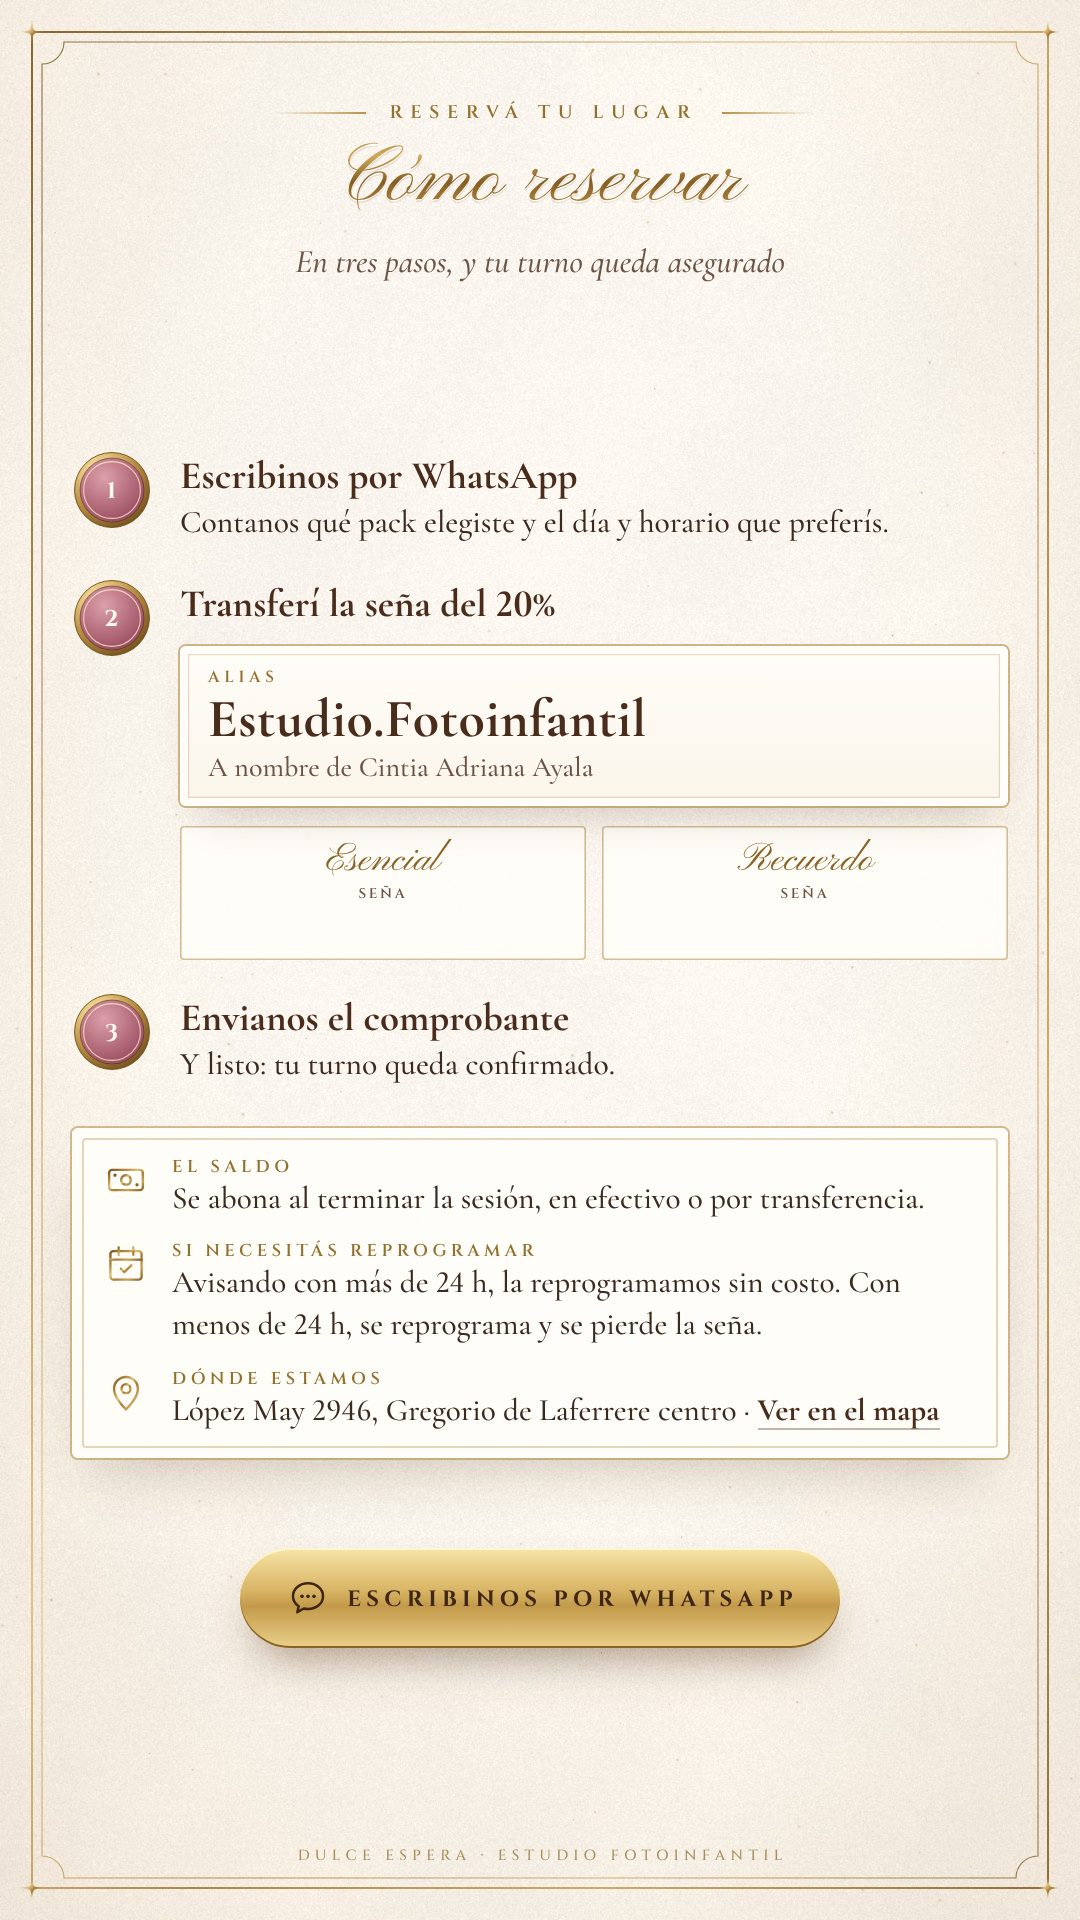
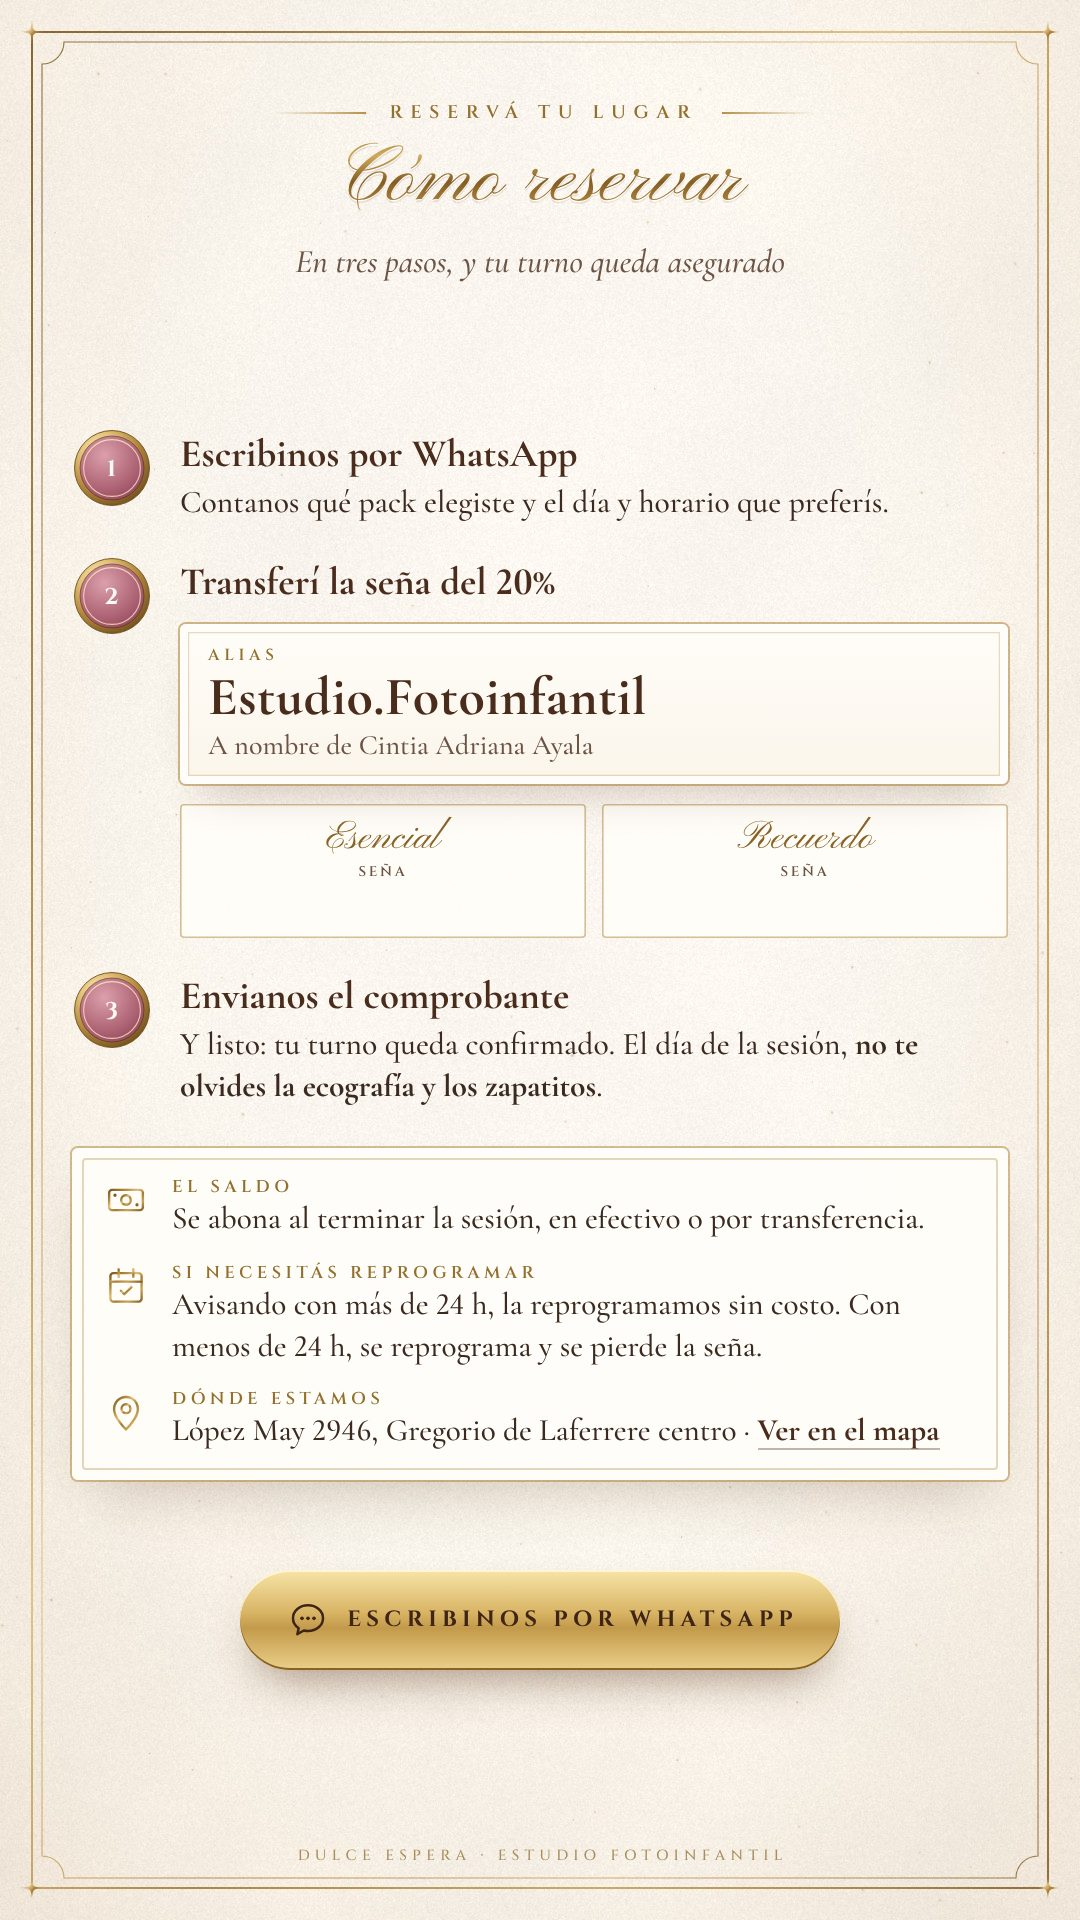
Maternidad: recordatorio de traer ecografía y zapatitos
Claude-Session: https://claude.ai/code/session_016rWcWKPNL1gNVstxUwshhh

diff --git a/maternidad/index.html b/maternidad/index.html
@@ -11,13 +11,13 @@
 <meta property="og:site_name" content="Estudio Fotoinfantil">
 <meta property="og:title" content="Dulce espera · Una propuesta para tu sesión de embarazo">
 <meta property="og:description" content="Sesión de fotos de embarazo en Estudio Fotoinfantil · Un recuerdo para toda la vida">
-<meta property="og:image" content="https://estudiofotoinfantil.github.io/WebEstudio/maternidad/og.jpg?v=dc3baa9d">
+<meta property="og:image" content="https://estudiofotoinfantil.github.io/WebEstudio/maternidad/og.jpg?v=0769d122">
 <meta property="og:image:width" content="1200">
 <meta property="og:image:height" content="630">
 <meta property="og:url" content="https://estudiofotoinfantil.github.io/WebEstudio/maternidad/">
 <meta name="twitter:card" content="summary_large_image">
-<link rel="icon" type="image/png" href="assets/favicon.png?v=dc3baa9d">
-<link rel="apple-touch-icon" href="assets/apple-touch-icon.png?v=dc3baa9d">
+<link rel="icon" type="image/png" href="assets/favicon.png?v=0769d122">
+<link rel="apple-touch-icon" href="assets/apple-touch-icon.png?v=0769d122">
 <link rel="preload" href="fonts/ballet-static-400.woff2" as="font" type="font/woff2" crossorigin>
 <link rel="preload" href="fonts/pinyon-script-latin-400-normal.woff2" as="font" type="font/woff2" crossorigin>
 <link rel="preload" href="fonts/cormorant-ln-500-italic.woff2" as="font" type="font/woff2" crossorigin>
@@ -43,8 +43,8 @@
   window.__fitK = k;
 })();
 </script>
-<script>window.NAV_V='dc3baa9d';</script>
-<script src="config.js?v=dc3baa9d"></script>
+<script>window.NAV_V='0769d122';</script>
+<script src="config.js?v=0769d122"></script>
 <style>
 @font-face{font-family:"Ballet";src:url(fonts/ballet-static-400.woff2) format("woff2");font-weight:400;font-display:block}
 @font-face{font-family:"Pinyon";src:url(fonts/pinyon-script-latin-400-normal.woff2) format("woff2");font-display:block}
@@ -364,6 +364,14 @@ ul.inc li.new{font-weight:700;color:var(--acc-ink)}
 .look{width:146px;text-align:center}
 .look .l{font-family:"Cinzel";font-weight:600;font-size:8.2px;letter-spacing:.22em;padding-left:.22em;color:var(--gold-txt);margin-top:9px}
 .tipsbox{padding:13px 18px 9px}
+.mustbring{position:relative;padding:14px 16px 15px;border-radius:3px;background:linear-gradient(165deg,#fffdfa 0%,var(--acc-soft) 100%);box-shadow:0 0 0 1px rgba(176,138,70,.75),0 0 0 4px rgba(255,253,249,.9),0 0 0 4.8px rgba(176,138,70,.5),0 18px 30px -12px rgba(90,55,25,.34)}
+.mustbring>.k{display:flex;justify-content:center;align-items:center;gap:9px;font-family:"Cinzel";font-weight:700;font-size:11px;letter-spacing:.3em;padding-left:.3em;color:var(--acc-ink)}
+.mustbring>.k svg{width:10px;height:10px}
+.mb2{display:flex;gap:14px;margin-top:11px}
+.mbi{flex:1;display:flex;align-items:center;gap:10px}
+.mbi svg{flex:0 0 52px;height:52px}
+.mbi .t{font-family:"Cormorant LN";font-weight:700;font-size:19px;line-height:1.15;color:var(--cocoa)}
+.mbi .d{font-family:"Cormorant LN";font-style:italic;font-weight:500;font-size:14.4px;line-height:1.2;color:var(--ink-soft);margin-top:1px}
 .tipsbox .k{font-family:"Cinzel";font-weight:600;font-size:8.6px;letter-spacing:.32em;color:var(--gold-txt)}
 
 /* ================================ WEB-ONLY UI ================================ */
@@ -444,6 +452,8 @@ html.measuring .web-only{display:none!important}
     <symbol id="i-family" viewBox="0 0 48 48"><circle cx="15" cy="13" r="5" fill="none" stroke="url(#gD)" stroke-width="1.6"/><circle cx="33" cy="13" r="5" fill="none" stroke="url(#gD)" stroke-width="1.6"/><path d="M6 36c0-7 4-12 9-12s9 5 9 12M24 36c0-7 4-12 9-12s9 5 9 12" fill="none" stroke="url(#gD)" stroke-width="1.6" stroke-linecap="round"/><circle cx="24" cy="29" r="3.6" fill="none" stroke="url(#gD)" stroke-width="1.6"/><path d="M17.5 44c0-5 3-8.4 6.5-8.4s6.5 3.4 6.5 8.4" fill="none" stroke="url(#gD)" stroke-width="1.6" stroke-linecap="round"/></symbol>
   </defs>
 </svg>
+
+
 
 
 
@@ -678,7 +688,7 @@ html.measuring .web-only{display:none!important}
   <circle cx="22" cy="22" r="17.6" fill="url(#accDisc)" stroke="#3a1606" stroke-opacity=".5" stroke-width=".5"/>
   <circle cx="22" cy="22" r="15.6" fill="none" stroke="#fff3cf" stroke-opacity=".75" stroke-width=".6"/>
   <text x="22" y="26.6" text-anchor="middle" font-family="Cinzel" font-weight="700" font-size="12.5" letter-spacing=".5" fill="#fffaf0">II</text>
-</svg></div><div><div class="tt">Preparás tus looks</div><div class="tx">Traés <b>2 cambios de ropa</b> de tu casa. En esta propuesta te dejamos ideas.</div></div></div>
+</svg></div><div><div class="tt">Preparás tus looks</div><div class="tx">Traés <b>2 cambios de ropa</b>, la <b>ecografía impresa</b> y unos <b>zapatitos del bebé</b>.</div></div></div>
       
       <div class="step"><div class="medal" style="flex:0 0 44px;height:44px"><svg viewBox="0 0 44 44" style="width:44px;height:44px" aria-hidden="true">
   <circle cx="22" cy="22" r="20.6" fill="url(#medal)" stroke="#6e4d1c" stroke-width=".5"/>
@@ -708,6 +718,15 @@ html.measuring .web-only{display:none!important}
         <div class="k">SOLA O EN PAREJA</div>
         <div class="body-t" style="margin-top:5px">Tu pareja puede sumarse a las fotos <b>al mismo valor</b>. Las fotos juntos, a contraluz, quedan soñadas.</div>
         <div class="body-t" style="margin-top:7px">Usamos los <b>2 cambios de ropa</b> que traés: uno más casual y otro más elegante.</div>
+      </div>
+    </div>
+    <div class="mustbring">
+      <div class="k"><svg viewBox="-1 -1 2 2" aria-hidden="true"><use href="#star4" x="-1" y="-1" width="2" height="2" fill="url(#gD)"/></svg>¡NO TE OLVIDES DE TRAER!<svg viewBox="-1 -1 2 2" aria-hidden="true"><use href="#star4" x="-1" y="-1" width="2" height="2" fill="url(#gD)"/></svg></div>
+      <div class="mb2">
+        <div class="mbi"><svg viewBox="0 0 48 48" aria-hidden="true"><rect x="7" y="9" width="34" height="30" rx="2.5" fill="none" stroke="url(#gD)" stroke-width="1.6"/><path d="M24 15 L12 33 A14 14 0 0 0 36 33 Z" fill="none" stroke="url(#gD)" stroke-width="1.4" stroke-linejoin="round"/><ellipse cx="25" cy="28" rx="4.2" ry="3" fill="none" stroke="url(#gD)" stroke-width="1.3"/><circle cx="21.4" cy="26.6" r="1.8" fill="none" stroke="url(#gD)" stroke-width="1.2"/></svg>
+          <div><div class="t">La ecografía</div><div class="d">Impresa, para las fotos con la panza</div></div></div>
+        <div class="mbi"><svg viewBox="0 0 48 48" aria-hidden="true"><path d="M9 20 C9 15 13 13 17 14 L21 15 C23 15.5 24 17 24 19 L24 25 C24 27 26 28 29 28.5 L36 29.5 C40 30 41 33 40 35.5 C39.3 37 37.8 37.5 36 37.5 L14 37.5 C11 37.5 9 35.5 9 32.5 Z" fill="none" stroke="url(#gD)" stroke-width="1.6" stroke-linejoin="round"/><path d="M10 31.5 H40" stroke="url(#gD)" stroke-width="1.1"/><path d="M15 20 L19 23 M19 18 L15 23" stroke="url(#gD)" stroke-width="1.1" stroke-linecap="round"/></svg>
+          <div><div class="t">Zapatitos del bebé</div><div class="d">Los primeros que le compraron</div></div></div>
       </div>
     </div>
   </div>
@@ -1012,7 +1031,7 @@ html.measuring .web-only{display:none!important}
   <div class="sub">Dos cambios de ropa: estas combinaciones quedan soñadas</div>
   
 </div>
-  <div class="mid" style="gap:20px">
+  <div class="mid" style="gap:16px">
     <div class="looks">
       <div class="look"><div class="cph" style="width:146px;height:216px;flex:0 0 146px">
   <div class="ph " style="background-image:url(assets/mt_lk_jean.jpg);left:7px;top:7px;right:7px;bottom:7px;border-radius:66.0px 66.0px 2px 2px;box-shadow:0 14px 20px -8px rgba(90,55,25,.42)"></div>
@@ -1043,10 +1062,19 @@ html.measuring .web-only{display:none!important}
       </ul></div>
       <div class="col no"><div class="h">MEJOR EVITAR</div><ul><li><span class="x">×</span>Estampados grandes o logos</li><li><span class="x">×</span>Colores flúor</li><li><span class="x">×</span>Ropa que te apriete la panza</li></ul></div>
     </div>
+    <div class="mustbring">
+      <div class="k"><svg viewBox="-1 -1 2 2" aria-hidden="true"><use href="#star4" x="-1" y="-1" width="2" height="2" fill="url(#gD)"/></svg>¡NO TE OLVIDES DE TRAER!<svg viewBox="-1 -1 2 2" aria-hidden="true"><use href="#star4" x="-1" y="-1" width="2" height="2" fill="url(#gD)"/></svg></div>
+      <div class="mb2">
+        <div class="mbi"><svg viewBox="0 0 48 48" aria-hidden="true"><rect x="7" y="9" width="34" height="30" rx="2.5" fill="none" stroke="url(#gD)" stroke-width="1.6"/><path d="M24 15 L12 33 A14 14 0 0 0 36 33 Z" fill="none" stroke="url(#gD)" stroke-width="1.4" stroke-linejoin="round"/><ellipse cx="25" cy="28" rx="4.2" ry="3" fill="none" stroke="url(#gD)" stroke-width="1.3"/><circle cx="21.4" cy="26.6" r="1.8" fill="none" stroke="url(#gD)" stroke-width="1.2"/></svg>
+          <div><div class="t">La ecografía</div><div class="d">Impresa, para las fotos con la panza</div></div></div>
+        <div class="mbi"><svg viewBox="0 0 48 48" aria-hidden="true"><path d="M9 20 C9 15 13 13 17 14 L21 15 C23 15.5 24 17 24 19 L24 25 C24 27 26 28 29 28.5 L36 29.5 C40 30 41 33 40 35.5 C39.3 37 37.8 37.5 36 37.5 L14 37.5 C11 37.5 9 35.5 9 32.5 Z" fill="none" stroke="url(#gD)" stroke-width="1.6" stroke-linejoin="round"/><path d="M10 31.5 H40" stroke="url(#gD)" stroke-width="1.1"/><path d="M15 20 L19 23 M19 18 L15 23" stroke="url(#gD)" stroke-width="1.1" stroke-linecap="round"/></svg>
+          <div><div class="t">Zapatitos del bebé</div><div class="d">Los primeros que le compraron</div></div></div>
+      </div>
+    </div>
     <div class="ivory tipsbox">
       <div class="k">ANTES DE VENIR</div>
       <ul class="tips" style="margin-top:7px">
-        <li class="body-t star-li" style="margin-bottom:5px"><svg viewBox="-1 -1 2 2" aria-hidden="true"><use href="#star4" x="-1" y="-1" width="2" height="2" fill="url(#gD)"/></svg>Vení con <b>ropa suelta</b>: así no quedan marcas del elástico en la panza.</li><li class="body-t star-li" style="margin-bottom:5px"><svg viewBox="-1 -1 2 2" aria-hidden="true"><use href="#star4" x="-1" y="-1" width="2" height="2" fill="url(#gD)"/></svg>Traé tus <b>2 cambios</b> listos y planchados.</li><li class="body-t star-li" style="margin-bottom:5px"><svg viewBox="-1 -1 2 2" aria-hidden="true"><use href="#star4" x="-1" y="-1" width="2" height="2" fill="url(#gD)"/></svg>Si tenés la <b>ecografía</b> o unos zapatitos del bebé, ¡traelos!</li>
+        <li class="body-t star-li" style="margin-bottom:5px"><svg viewBox="-1 -1 2 2" aria-hidden="true"><use href="#star4" x="-1" y="-1" width="2" height="2" fill="url(#gD)"/></svg>Vení con <b>ropa suelta</b>: así no quedan marcas del elástico en la panza.</li><li class="body-t star-li" style="margin-bottom:5px"><svg viewBox="-1 -1 2 2" aria-hidden="true"><use href="#star4" x="-1" y="-1" width="2" height="2" fill="url(#gD)"/></svg>Traé tus <b>2 cambios</b> listos y planchados.</li><li class="body-t star-li" style="margin-bottom:5px"><svg viewBox="-1 -1 2 2" aria-hidden="true"><use href="#star4" x="-1" y="-1" width="2" height="2" fill="url(#gD)"/></svg>Uñas prolijas y la panza hidratada, con crema y sin aceites.</li>
       </ul>
     </div>
   </div>
@@ -1110,7 +1138,7 @@ html.measuring .web-only{display:none!important}
   <circle cx="22" cy="22" r="17.6" fill="url(#accDisc)" stroke="#3a1606" stroke-opacity=".5" stroke-width=".5"/>
   <circle cx="22" cy="22" r="15.6" fill="none" stroke="#fff3cf" stroke-opacity=".75" stroke-width=".6"/>
   <text x="22" y="26.6" text-anchor="middle" font-family="Cinzel" font-weight="700" font-size="12.5" letter-spacing=".5" fill="#fffaf0">3</text>
-</svg></div><div><div class="tt">Envianos el comprobante</div><div class="tx">Y listo: tu turno queda confirmado.</div></div></div>
+</svg></div><div><div class="tt">Envianos el comprobante</div><div class="tx">Y listo: tu turno queda confirmado. El día de la sesión, <b>no te olvides la ecografía y los zapatitos</b>.</div></div></div>
     </div>
     <div class="info ivory">
       <div class="r"><span class="ic"><svg aria-hidden="true"><use href="#i-cash" width="22" height="22"/></svg></span><div><div class="h">EL SALDO</div><div class="t">Se abona al terminar la sesión, en efectivo o por transferencia.</div></div></div>
@@ -1164,7 +1192,7 @@ html.measuring .web-only{display:none!important}
       
       <div class="qa"><div class="q"><svg viewBox="-1 -1 2 2" aria-hidden="true"><use href="#star4" x="-1" y="-1" width="2" height="2" fill="url(#gD)"/></svg>¿Puede venir mi pareja?</div><div class="a">¡Sí! La sesión puede ser sola o en pareja, al mismo valor.</div></div>
       
-      <div class="qa"><div class="q"><svg viewBox="-1 -1 2 2" aria-hidden="true"><use href="#star4" x="-1" y="-1" width="2" height="2" fill="url(#gD)"/></svg>¿Qué ropa llevo?</div><div class="a">2 cambios de ropa que traés de tu casa. En esta propuesta te dejamos ideas de looks.</div></div>
+      <div class="qa"><div class="q"><svg viewBox="-1 -1 2 2" aria-hidden="true"><use href="#star4" x="-1" y="-1" width="2" height="2" fill="url(#gD)"/></svg>¿Qué tengo que traer?</div><div class="a">2 cambios de ropa, la ecografía impresa y unos zapatitos del bebé. ¡No te los olvides: con ellos salen las fotos más tiernas!</div></div>
       
       <div class="qa"><div class="q"><svg viewBox="-1 -1 2 2" aria-hidden="true"><use href="#star4" x="-1" y="-1" width="2" height="2" fill="url(#gD)"/></svg>¿Cuándo recibo las fotos?</div><div class="a">Las 15 fotos, en menos de 24 h, todas editadas y en alta calidad, por WhatsApp. El cuadro, en 48 h hábiles para retirar en el estudio.</div></div>
       
@@ -1252,6 +1280,6 @@ html.measuring .web-only{display:none!important}
 </div>
 <div class="toast" id="toast" role="status" aria-live="polite"></div>
 
-<script src="app.js?v=dc3baa9d" defer></script>
+<script src="app.js?v=0769d122" defer></script>
 </body>
 </html>

diff --git a/crear.html b/crear.html
@@ -6,11 +6,11 @@
 <title>Generador de propuestas · Estudio Fotoinfantil</title>
 <meta name="robots" content="noindex, nofollow">
 <meta name="theme-color" content="#2b1b12">
-<link rel="icon" type="image/png" href="crear-assets/favicon.png?v=11f961be">
-<link rel="apple-touch-icon" href="crear-assets/apple-touch-icon.png?v=11f961be">
-<script src="navidad/config.js?v=11f961be"></script>
-<script src="primer-anito/config.js?v=11f961be"></script>
-<script src="maternidad/config.js?v=11f961be"></script>
+<link rel="icon" type="image/png" href="crear-assets/favicon.png?v=c166a434">
+<link rel="apple-touch-icon" href="crear-assets/apple-touch-icon.png?v=c166a434">
+<script src="navidad/config.js?v=c166a434"></script>
+<script src="primer-anito/config.js?v=c166a434"></script>
+<script src="maternidad/config.js?v=c166a434"></script>
 <style>
 @font-face{font-family:"Pinyon";src:url(crear-assets/pinyon-script-latin-400-normal.woff2) format("woff2");font-display:swap}
 @font-face{font-family:"Cinzel";font-weight:600;src:url(crear-assets/cinzel-latin-600-normal.woff2) format("woff2");font-display:swap}
@@ -301,7 +301,7 @@ li svg{width:19px;height:19px}
   function msgFor(x, link) {
     if (x.tipo === 'mat') {
       return '¡Hola ' + x.b + (x.m ? ' y ' + x.m : '') + '! 🤍 Te comparto la propuesta para ' + (x.m ? 'su' : 'tu') + ' sesión de embarazo, que preparamos especialmente para ' + (x.m ? 'ustedes' : 'vos') + ' ✨\n' +
-        (x.m ? 'Ahí van a encontrar los packs, ' + (x.f ? 'su momento ideal' : 'las fechas') : 'Ahí vas a encontrar los packs, ' + (x.f ? 'tu momento ideal' : 'las fechas')) + ' y cómo reservar.\n\n' + link;
+        (x.m ? 'Ahí van a encontrar los packs, ' + (x.f ? 'su momento ideal' : 'las fechas') : 'Ahí vas a encontrar los packs, ' + (x.f ? 'tu momento ideal' : 'las fechas')) + ' y cómo reservar.\n📌 Para la sesión: 2 cambios de ropa, la ecografía impresa y unos zapatitos del bebé.\n\n' + link;
     }
     if (x.tipo === 'nav') {
       return (x.m ? '¡Hola ' + x.m + '! 🎄' : '¡Hola! 🎄') + ' Te comparto la propuesta de Navidad 2026 que preparamos especialmente para ' + x.b + ' ✨\n' +
